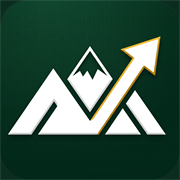
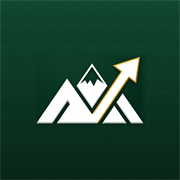
Ajusta margen y zona segura de icono institucional y actualiza APK v1.0.2

Changed region(s): [[0.0278, 0.1944, 0.9444, 0.7778], [0.0, 0.0, 0.1111, 0.0833], [0.8889, 0.0, 1.0, 0.0556]]

diff --git a/index.html b/index.html
@@ -2,8 +2,8 @@
 <html lang="es">
   <head>
     <meta charset="UTF-8" />
-    <link rel="icon" href="/favicon.ico?v=2" type="image/x-icon" />
-    <link rel="apple-touch-icon" sizes="180x180" href="/apple-touch-icon.png?v=2" />
+    <link rel="icon" href="/favicon.ico?v=3" type="image/x-icon" />
+    <link rel="apple-touch-icon" sizes="180x180" href="/apple-touch-icon.png?v=3" />
     <meta name="viewport" content="width=device-width, initial-scale=1.0, maximum-scale=1.0, user-scalable=no" />
     <meta name="theme-color" content="#0B2D20" />
     <meta name="description" content="Mi Ganancia · Tu negocio, simple. Ventas, inventario y reportes." />
